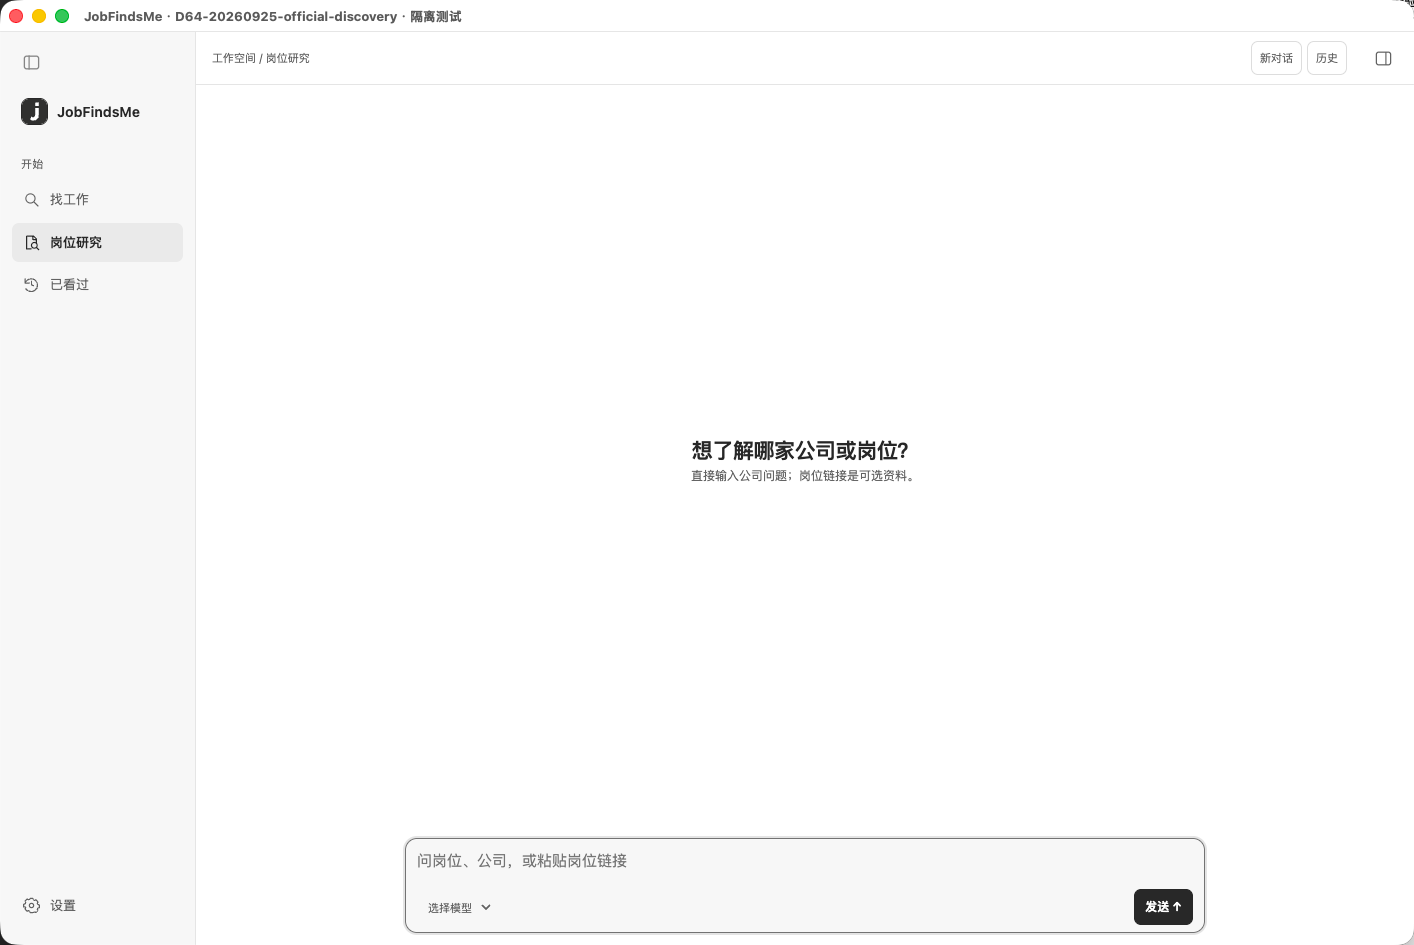
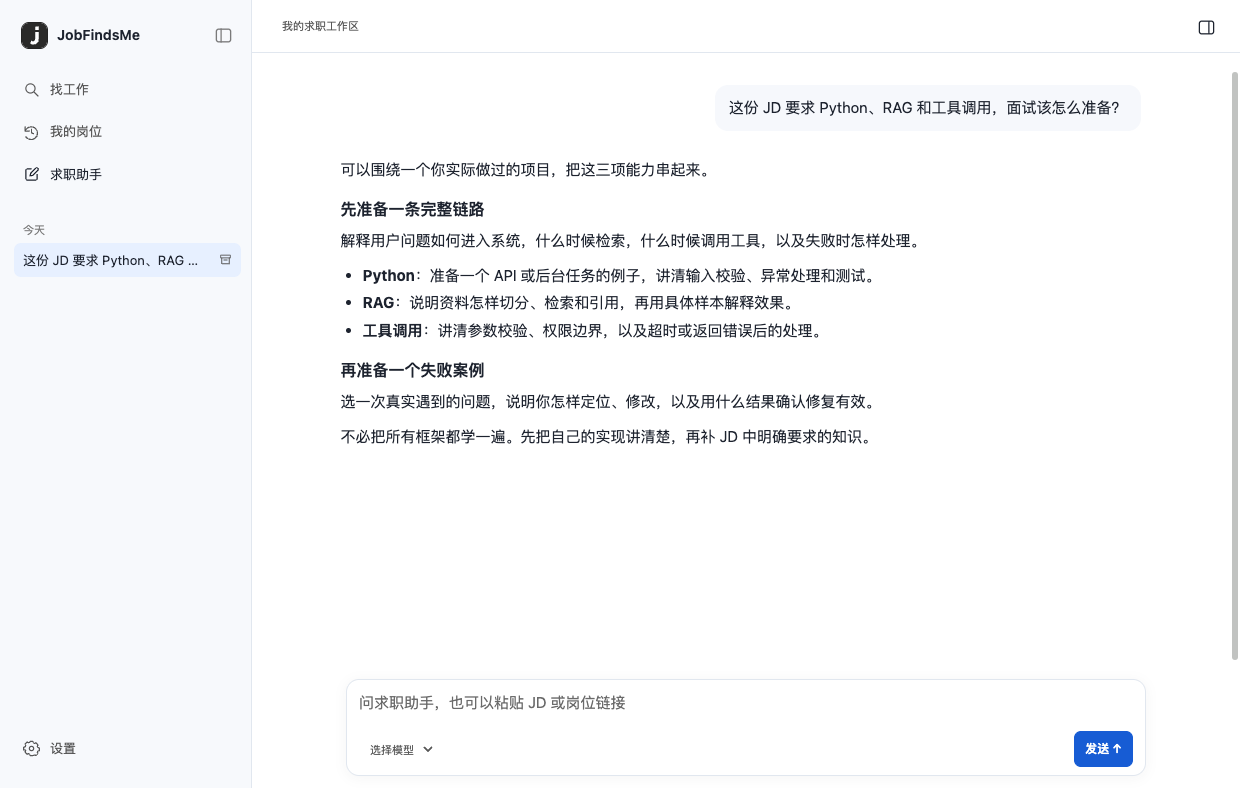
docs: simplify Chinese README and refresh desktop screenshots

diff --git a/README.md b/README.md
@@ -1,121 +1,61 @@
 <p align="center">
-  <img src="docs/images/logo.svg" width="80" height="80" alt="JobFindsMe logo">
+  <img src="docs/images/logo.svg" width="72" height="72" alt="JobFindsMe 标志">
 </p>
 <h1 align="center">JobFindsMe</h1>
-<p align="center"><strong>找岗位，读原文，做研究。</strong></p>
-<p align="center">检索 4 个招聘平台，带着简历找机会，带着证据做判断。</p>
-
+<p align="center"><strong>找岗位，读懂 JD，准备下一步。</strong></p>
+<p align="center">一个桌面求职助手，把岗位搜索、求职对话和进展记录放在一起。</p>
 <p align="center">
-  <a href="https://github.com/russeell/jobfindsme/releases/latest"><img src="https://img.shields.io/github/v/release/russeell/jobfindsme?style=flat-square&color=27272a" alt="Latest release"></a>
-  <a href="LICENSE"><img src="https://img.shields.io/badge/license-MIT-27272a?style=flat-square" alt="MIT license"></a>
-  <img src="https://img.shields.io/badge/macOS-Apple_Silicon-27272a?style=flat-square" alt="macOS Apple Silicon">
+  <a href="https://github.com/russeell/jobfindsme/releases/latest"><img src="https://img.shields.io/github/v/release/russeell/jobfindsme?style=flat-square&color=2563eb" alt="最新发布版"></a>
+  <a href="LICENSE"><img src="https://img.shields.io/badge/许可证-MIT-2563eb?style=flat-square" alt="MIT 许可证"></a>
+</p>
+<p align="center">
+  <a href="https://github.com/russeell/jobfindsme/releases/latest">下载应用</a> ·
+  <a href="#开始使用">开始使用</a> ·
+  <a href="https://github.com/russeell/jobfindsme/issues">反馈问题</a>
 </p>
 
-<div align="center">
+![岗位搜索与详情](docs/images/jobfindsme-search.png)
 
-[下载桌面版](https://github.com/russeell/jobfindsme/releases/latest) · [支持来源](#支持的来源) · [快速上手](#开始使用) · [English](README.en.md)
+<sub>截图来自当前开发版，岗位与对话均为示例数据；下载版本以发布页为准。</sub>
 
-</div>
+## 能帮你做什么
 
-<br>
+- **找岗位**：搜索 BOSS直聘、猎聘、智联招聘和前程无忧，按城市、薪资等条件筛选；导入并确认简历，辅助岗位匹配。
+- **聊求职**：分析 JD、准备面试、整理求职材料；需要了解公司时，再查资料并提供原文引用。
+- **记进展**：收藏岗位，记录已读与投递状态，保留对话，方便下次接着聊。
 
-<p align="center">
-  <img src="docs/images/jobfindsme-search.png" width="100%" alt="JobFindsMe — job search and details">
-</p>
-<p align="center"><sub>实际应用截图 · 隔离版本中的一次检索，岗位数量与来源状态仅代表截图时的结果。</sub></p>
+![求职助手对话](docs/images/jobfindsme-research.png)
 
-## 从找到机会，到了解机会
+## 下载
 
-<table>
-<tr>
-<td width="33%" valign="top"><h3>01 · 找到岗位</h3><p>按岗位、技能和城市检索多个招聘来源。也可以导入并确认简历，让经历参与匹配。</p></td>
-<td width="33%" valign="top"><h3>02 · 了解机会</h3><p>打开招聘原页，继续追问公司与职位。研究回答保留引用，没查到的信息明确说明。</p></td>
-<td width="33%" valign="top"><h3>03 · 留下进展</h3><p>收藏感兴趣的岗位，记录已读与投递状态。重开历史对话，接着上次的问题往下聊。</p></td>
-</tr>
-</table>
-
-## 支持的来源
-
-目前提供 **4 个岗位检索来源**：BOSS直聘、猎聘、智联招聘和前程无忧。公司网页仍可在内置浏览器打开，已保存岗位的原链接仍可查看。
-
-| 招聘平台 | 使用方式 |
+| 系统 | 下载与打开 |
 | --- | --- |
-| BOSS直聘 | 在应用内登录并完成来源检查后检索 |
-| 猎聘 | 可尝试公开岗位检索，无需预先登录 |
-| 智联招聘 | 在应用内登录并完成来源检查后检索 |
-| 前程无忧 | 在应用内登录并完成来源检查后检索 |
+| macOS · Apple Silicon（M 系列） | [下载 mac-arm64.zip](https://github.com/russeell/jobfindsme/releases/latest/download/mac-arm64.zip)，解压后打开 `JobFindsMe.app` |
+| Windows · x64 | [下载 windows-x64.zip](https://github.com/russeell/jobfindsme/releases/latest/download/windows-x64.zip)，完整解压后运行 `JobFindsMe.exe` |
 
-来源是否能返回岗位、读取完整 JD 或继续翻页，以「设置 → 岗位来源」的检查结果为准。登录失效、验证码、限流和网站改版可能影响检索；这份列表不代表所有来源随时可用，也不代表能获取全部在招岗位。
-
-## 安装
-
-从 **[GitHub Releases](https://github.com/russeell/jobfindsme/releases/latest)** 下载桌面安装包。
-
-| 系统 | 当前安装包 |
-| --- | --- |
-| macOS · Apple Silicon（M 系列） | 下载 `mac-arm64.zip`，解压后将 `JobFindsMe.app` 放入「应用程序」 |
-| Windows · x64 | 下载 `windows-x64.zip`，完整解压后运行 `JobFindsMe.exe`，无需安装 Python 或 Node.js |
-| macOS · Intel / Windows ARM / Linux | 暂未提供安装包 |
-
-Windows 便携包尚未代码签名，可能触发 SmartScreen 提示；请核对发布资源显示的 SHA-256 摘要。不要只拷贝 exe，需保留完整目录。
-
-当前 macOS 包尚未签名、公证，首次打开可能被系统拦截，请按「系统设置 → 隐私与安全性」提示处理。发布资源显示 SHA-256 摘要。后续可在应用的「设置 → 版本更新」检查新版本并前往下载；暂不自动安装。
-
-如果你用过隔离测试版，原有数据仍留在原测试目录，不会自动合并到正式版。
+无需另装 Python 或 Node.js。安装包尚未签名，首次打开可能出现系统安全提示，说明与 SHA-256 校验信息见[发布页](https://github.com/russeell/jobfindsme/releases/latest)。其他系统暂未提供安装包。
 
 ## 开始使用
 
-1. **选来源。** 打开「设置 → 岗位来源」，按需登录并检查，再勾选要检索的平台。
-2. **找岗位。** 回到「找工作」，输入如 `Python 后端`、`Agent 开发`，设置城市等筛选条件。想用简历匹配，可先通过简历按钮导入并确认内容。
-3. **看详情。** 打开感兴趣的岗位，核对 JD 和招聘原页，收藏值得继续了解的机会。
-4. **做研究。** 在「设置 → 模型设置」配置模型，再进入「岗位研究」提问，或从岗位详情带入研究对象。
+1. 在「设置 → 岗位来源」选择平台，需要登录时使用内置浏览器。
+2. 在「找工作」输入岗位方向，例如 `Python 后端` 或 `Agent 开发`，查看详情和招聘原页。
+3. 在「设置 → 模型设置」配置模型，然后打开「求职助手」，粘贴 JD 或直接提问。
 
-可以这样问：
+> 这份 JD 最看重哪些能力？我应该怎样准备面试？
 
-> 帮我了解腾讯的经营与公开披露情况。
->
-> 这个岗位主要要求哪些能力？结合 JD 说明。
->
-> 刚才的结论有哪些原文支持？还有哪些信息没有查到？
+部分平台的检索、详情和翻页会受登录、验证码及网站改版影响，不保证覆盖全部岗位。公司研究也可能缺少材料，请结合引用核对。
 
-<p align="center">
-  <img src="docs/images/jobfindsme-research.png" width="100%" alt="JobFindsMe — research conversation">
-</p>
-<p align="center"><sub>一个输入框，从公司、问题或岗位链接开始。选择模型后，即可发起对话。</sub></p>
-
-## 数据与模型
-
-岗位、简历、对话和报告保存在本机，模型密钥使用系统安全存储。聊天和研究使用你配置的模型服务，相关输入会发送给该服务，并可能产生费用；本地保存不等于全程离线。网页检索也需要联网，请勿把隐私信息写进公开检索问题。
-
-支持导入 PDF、DOCX、Markdown 和 TXT 简历，扫描 PDF 暂不支持 OCR。应用不会自动投递，定时检索目前停用。研究报告保留来源与引用，帮助你核对信息；来源可能过时，引用也不等于结论一定正确。
+岗位、简历和对话保存在本机。使用模型时，相关内容会发送给你配置的服务，并可能产生费用。应用不会自动投递。
 
 <details>
-<summary><strong>开发者 · 从源码运行</strong></summary>
+<summary>开发与贡献</summary>
 
-需要 Python 3.11+、Node.js/npm 和 Git。当前桌面开发流程以 macOS 为主。
+使用 Electron、React、Python、SQLite 和 Pi Agent。需要 Python 3.11+、Node.js/npm；运行方式见[开发说明](docs/desktop/README.md)。
 
-```bash
-git clone https://github.com/russeell/jobfindsme.git
-cd jobfindsme
-python3 -m venv .venv
-source .venv/bin/activate
-python -m pip install -e ".[dev,browser]"
-cd apps/desktop
-npm ci
-npm run build
-npm start
-```
+欢迎提交 [Issue](https://github.com/russeell/jobfindsme/issues) 或 PR。反馈时请附操作步骤和错误提示，勿上传简历、密钥或 Cookie。
 
-默认使用仓库内的 `.venv/bin/python`，其他解释器可通过 `JFM_PYTHON` 指定。
+[贡献指南](CONTRIBUTING.md) · [项目结构](docs/desktop/STRUCTURE.md) · [安全说明](SECURITY.md)
 
 </details>
 
-## 参与开发
-
-项目使用 Electron、React、TypeScript、Python 和 SQLite，研究对话基于 Pi Agent。欢迎通过 [Issues](https://github.com/russeell/jobfindsme/issues) 反馈问题或提交改进；反馈来源异常时，请附上来源名称、操作步骤和错误提示，不要上传密钥、Cookie 或个人简历。
-
-[贡献指南](CONTRIBUTING.md) · [项目结构](docs/desktop/STRUCTURE.md) · [开发说明](docs/desktop/README.md) · [当前进度](docs/desktop/HANDOFF.md) · [安全说明](SECURITY.md)
-
-## 许可证
-
-[MIT](LICENSE) · Copyright © 2026 Russell。第三方依赖保留各自许可证。
+[MIT 许可证](LICENSE)

diff --git a/docs/desktop/HANDOFF.md b/docs/desktop/HANDOFF.md
@@ -1,3 +1,5 @@
+D95 中文 README 与 About（2026-09-29）：README约60行，围绕岗位搜索、求职助手、进展记录、两系统下载及三步上手；移除过时岗位研究入口和强制先检查的操作说明，开发内容折叠。两张截图来自当前D94隔离原生界面，仅虚构岗位与预置示例对话；独立临时数据库和仅临时包的模拟搜索返回，无真实来源/模型请求，图片不含用户资料，README明确开发版与示例数据。GitHub Markdown渲染、本地链接及图片路径检查通过；原生截图已视觉检查，文档变更未重复业务测试。About使用中文桌面求职助手简介、发布页链接，移除过时MCP/编码代理主题，加入Electron/React。未更改应用代码、版本准备文件或发布包。
+
 D94 已选平台继续检索（2026-09-29）：删除前端自动挑未选平台并slice(0,2)的扩大逻辑及重复未轮到/单平台按钮，统一“继续检索已选平台”。计划只包含当前勾选的平台：新选/预算未轮到来源读取首批，可续查来源使用各自真实游标；无游标/读完/受限来源明确列出，不重新读取第一页、不伪造下一页。多来源游标仅在现有Electron采集链路携带，预检和Python保存前摘除；保留单次15秒共享预算、每来源1页、小并发、取消与逐来源落库。本地筛选与旧结果保留沿用D93，不增加网站详情或模型请求。
 - 新增多平台不同游标回归在旧采集器失败，修改后通过；选中范围回归确认不限制为2个、不添加未选平台、预算未轮到首次读取。Node243项、类型检查/构建、Ruff check/format147文件、diff检查通过。Python行为未改，前轮全套434项通过，本轮未重复全套。Python运行时已从当前D91–D93源码重建，正常本地包 `/private/tmp/JobFindsMe-D94-Selected-Platforms.app`（v0.13.3+local.D94）包含三项修复和D94，包审计通过；无SQLite用户数据或会话打包。
 - 未执行本轮原生界面/四平台实时续页验收或同条件性能比较；测试为模拟页面/采集器，不能声称全部平台实际支持续页。若共享预算未轮到，仍明确记录未执行来源，可再次继续。未推送/发布；版本准备文件继续单独未提交，GitHub下载尚未更新。
